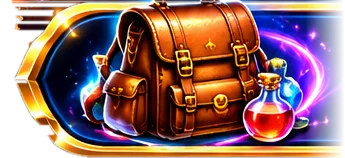
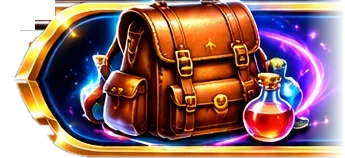
Boutique : fond opaque (plus de carré flou), décor du bas, bandeaux nettoyés
Claude-Session: https://claude.ai/code/session_01L5A7b5TFWkvreAmFd6UdR1

diff --git a/sw.js b/sw.js
@@ -1,4 +1,4 @@
-const C="qmqdev-v24";const F=["eq_cr.webp","mi1.webp","mi2.webp","mi3.webp","mi4.webp","mi5.webp","s_trophy.webp","ei_casque_1.webp","ei_casque_2.webp","ei_casque_3.webp","ei_casque_4.webp","ei_casque_5.webp","ei_ceinture_1.webp","ei_ceinture_2.webp","ei_ceinture_3.webp","ei_ceinture_4.webp","ei_ceinture_5.webp","ei_epaules_1.webp","ei_epaules_2.webp","ei_epaules_3.webp","ei_epaules_4.webp","ei_epaules_5.webp","ei_gants_1.webp","ei_gants_2.webp","ei_gants_3.webp","ei_gants_4.webp","ei_gants_5.webp","ei_jambes_1.webp","ei_jambes_2.webp","ei_jambes_3.webp","ei_jambes_4.webp","ei_jambes_5.webp","ei_pieds_1.webp","ei_pieds_2.webp","ei_pieds_3.webp","ei_pieds_4.webp","ei_pieds_5.webp","ei_torse_1.webp","ei_torse_2.webp","ei_torse_3.webp","ei_torse_4.webp","ei_torse_5.webp","eq_bg.webp","eq_ft.webp","eq_gr.webp","eq_hd.webp","eq_t1.webp","eq_t2.webp","ing.webp","za1.webp","za10.webp","za11.webp","za12.webp","za13.webp","za14.webp","za15.webp","za16.webp","za17.webp","za18.webp","za19.webp","za2.webp","za20.webp","za21.webp","za22.webp","za23.webp","za24.webp","za25.webp","za26.webp","za27.webp","za28.webp","za29.webp","za3.webp","za30.webp","za4.webp","za5.webp","za6.webp","za7.webp","za8.webp","za9.webp","zbk.webp","zco.webp","zf.webp","zgr.webp","zh.webp","zlk.webp","zs1.webp","zs10.webp","zs11.webp","zs12.webp","zs13.webp","zs14.webp","zs15.webp","zs16.webp","zs17.webp","zs18.webp","zs19.webp","zs2.webp","zs20.webp","zs21.webp","zs22.webp","zs23.webp","zs24.webp","zs25.webp","zs26.webp","zs27.webp","zs28.webp","zs29.webp","zs3.webp","zs30.webp","zs4.webp","zs5.webp","zs6.webp","zs7.webp","zs8.webp","zs9.webp","zti.webp","gw_lock.webp","gw_fam.webp","gw_gem.webp","eclat_essence.webp","eclat_runique.webp","eclat_astral.webp","eclat_eternel.webp","hn00.webp","hn01.webp","hn02.webp","hn03.webp","hn04.webp","hn05.webp","hn06.webp","hn07.webp","hn08.webp","hn09.webp","hn10.webp","hn11.webp","hn12.webp","hn13.webp","hn14.webp","hn15.webp","hn16.webp","hn17.webp","hn18.webp","hn19.webp","hn20.webp","hn21.webp","hn22.webp","hn23.webp","hn24.webp","hn25.webp","hn26.webp","hn27.webp","hn28.webp","hn29.webp","hn30.webp","hn31.webp","hn32.webp","hn33.webp","hn34.webp","hn35.webp","hn36.webp","hn37.webp","hn38.webp","hn39.webp","hn40.webp","hn41.webp","hn42.webp","hn43.webp","hn44.webp","hn45.webp","hn46.webp","hn47.webp","hn48.webp","hn49.webp","hn50.webp","hn51.webp","hn52.webp","hn53.webp","hn54.webp","hn55.webp","hn56.webp","hn57.webp","hn58.webp","hn59.webp","hn60.webp","hn61.webp","hn62.webp","hn63.webp","hn64.webp","hn65.webp","hn66.webp","hn67.webp","hn68.webp","hn69.webp","hn70.webp","hn71.webp","hn72.webp","hn73.webp","hn74.webp","hn75.webp","hn76.webp","hn77.webp","hn78.webp","hn79.webp","hn80.webp","hn81.webp","hn82.webp","hn83.webp","s_fr_c01.webp","s_fr_c02.webp","s_fr_c03.webp","s_fr_c04.webp","s_fr_c05.webp","s_fr_c06.webp","s_fr_c07.webp","s_fr_c08.webp","s_fr_c09.webp","s_fr_c10.webp","s_fr_c11.webp","s_fr_c12.webp","s_fr_c13.webp","s_fr_c14.webp","s_fr_c15.webp","s_fr_c16.webp","s_fr_c17.webp","s_fr_c18.webp","sb_l_obj.webp","sb_l_fr.webp","sb_l_ti.webp","sb_l_th.webp","sb_l0.webp","sb_r.webp","sb_r0.webp","sb_mid.webp","shop_head.webp","mn_head.webp","dx_head.webp","dx_eye.webp","mt_zone.webp","mt_badge.webp","mt_dex.webp","mt_shop.webp","mt_inv.webp","mt_wheel.webp","mt_coop.webp","mt_sell.webp","mt_odds.webp","mt_news.webp","mt_blank1.webp","mt_blank2.webp","./", "index.html", "manifest.webmanifest", "icon-192.png", "icon-512.png","icon-maskable-192.png","icon-maskable-512.png", "i0.webp", "i1.webp", "i10.webp", "i100.webp", "i101.webp", "i102.webp", "i103.webp", "i104.webp", "i105.webp", "i106.webp", "i107.webp", "i108.webp", "i109.webp", "i11.webp", "i110.webp", "i111.webp", "i112.webp", "i113.webp", "i114.webp", "i115.webp", "i116.webp", "i117.webp", "i118.webp", "i119.webp", "i12.webp", "i120.webp", "i121.webp", "i122.webp", "i123.webp", "i124.webp", "i125.webp", "i126.webp", "i127.webp", "i128.webp", "i129.webp", "i13.webp", "i130.webp", "i131.webp", "i132.webp", "i133.webp", "i134.webp", "i135.webp", "i136.webp", "i137.webp", "i138.webp", "i139.webp", "i14.webp", "i140.webp", "i141.webp", "i142.webp", "i143.webp", "i144.webp", "i145.webp", "i146.webp", "i147.webp", "i148.webp", "i149.webp", "i15.webp", "i150.webp", "i151.webp", "i152.webp", "i153.webp", "i154.webp", "i155.webp", "i156.webp", "i157.webp", "i158.webp", "i159.webp", "i16.webp", "i160.webp", "i161.webp", "i162.webp", "i163.webp", "i164.webp", "i165.webp", "i166.webp", "i167.webp", "i168.webp", "i169.webp", "i17.webp", "i170.webp", "i171.webp", "i172.webp", "i173.webp", "i174.webp", "i175.webp", "i176.webp", "i177.webp", "i178.webp", "i179.webp", "i18.webp", "i180.webp", "i181.webp", "i182.webp", "i183.webp", "i184.webp", "i185.webp", "i186.webp", "i187.webp", "i188.webp", "i189.webp", "i19.webp", "i190.webp", "i191.webp", "i192.webp", "i193.webp", "i194.webp", "i195.webp", "i196.webp", "i197.webp", "i198.webp", "i199.webp", "i2.webp", "i20.webp", "i200.webp", "i201.webp", "i202.webp", "i203.webp", "i204.webp", "i205.webp", "i206.webp", "i207.webp", "i208.webp", "i209.jpg", "i21.webp", "i210.webp", "i211.webp", "i212.webp", "i213.webp", "i214.webp", "i215.webp", "i216.webp", "i217.webp", "i218.webp", "i219.webp", "i220.webp", "i221.webp", "i222.webp", "i223.webp", "i224.webp", "i225.webp", "i226.webp", "i227.webp", "i228.webp", "i229.webp", "i230.webp", "i231.webp", "i232.webp", "i233.webp", "i234.webp", "i235.webp", "i236.webp", "i237.webp", "bgdev.webp", "i22.webp", "i23.webp", "i24.webp", "i25.webp", "i26.webp", "i27.webp", "i28.webp", "i29.webp", "i3.webp", "i30.webp", "i31.webp", "i32.webp", "i33.webp", "i34.webp", "i35.webp", "i36.webp", "i37.webp", "i38.webp", "i39.webp", "i4.webp", "i40.webp", "i41.webp", "i42.webp", "i43.webp", "i44.webp", "i45.webp", "i46.webp", "i47.webp", "i48.webp", "i49.webp", "i5.webp", "i50.webp", "i51.webp", "i52.webp", "i53.webp", "i54.webp", "i55.webp", "i56.webp", "i57.webp", "i58.webp", "i59.webp", "i6.webp", "i60.webp", "i61.webp", "i62.webp", "i63.webp", "i64.webp", "i65.webp", "i66.webp", "i67.webp", "i68.webp", "i69.webp", "i7.webp", "i70.webp", "i71.webp", "i72.webp", "i73.webp", "i74.webp", "i75.webp", "i76.webp", "i77.webp", "i78.webp", "i79.webp", "i8.webp", "i80.webp", "i81.webp", "i82.webp", "i83.webp", "i84.webp", "i85.webp", "i86.webp", "i87.webp", "i88.webp", "i89.webp", "i9.webp", "i90.webp", "i91.webp", "i92.webp", "i93.webp", "i94.webp", "i95.webp", "i96.webp", "i97.webp", "i98.webp", "i99.webp"];
+const C="qmqdev-v25";const F=["eq_cr.webp","mi1.webp","mi2.webp","mi3.webp","mi4.webp","mi5.webp","s_trophy.webp","ei_casque_1.webp","ei_casque_2.webp","ei_casque_3.webp","ei_casque_4.webp","ei_casque_5.webp","ei_ceinture_1.webp","ei_ceinture_2.webp","ei_ceinture_3.webp","ei_ceinture_4.webp","ei_ceinture_5.webp","ei_epaules_1.webp","ei_epaules_2.webp","ei_epaules_3.webp","ei_epaules_4.webp","ei_epaules_5.webp","ei_gants_1.webp","ei_gants_2.webp","ei_gants_3.webp","ei_gants_4.webp","ei_gants_5.webp","ei_jambes_1.webp","ei_jambes_2.webp","ei_jambes_3.webp","ei_jambes_4.webp","ei_jambes_5.webp","ei_pieds_1.webp","ei_pieds_2.webp","ei_pieds_3.webp","ei_pieds_4.webp","ei_pieds_5.webp","ei_torse_1.webp","ei_torse_2.webp","ei_torse_3.webp","ei_torse_4.webp","ei_torse_5.webp","eq_bg.webp","eq_ft.webp","eq_gr.webp","eq_hd.webp","eq_t1.webp","eq_t2.webp","ing.webp","za1.webp","za10.webp","za11.webp","za12.webp","za13.webp","za14.webp","za15.webp","za16.webp","za17.webp","za18.webp","za19.webp","za2.webp","za20.webp","za21.webp","za22.webp","za23.webp","za24.webp","za25.webp","za26.webp","za27.webp","za28.webp","za29.webp","za3.webp","za30.webp","za4.webp","za5.webp","za6.webp","za7.webp","za8.webp","za9.webp","zbk.webp","zco.webp","zf.webp","zgr.webp","zh.webp","zlk.webp","zs1.webp","zs10.webp","zs11.webp","zs12.webp","zs13.webp","zs14.webp","zs15.webp","zs16.webp","zs17.webp","zs18.webp","zs19.webp","zs2.webp","zs20.webp","zs21.webp","zs22.webp","zs23.webp","zs24.webp","zs25.webp","zs26.webp","zs27.webp","zs28.webp","zs29.webp","zs3.webp","zs30.webp","zs4.webp","zs5.webp","zs6.webp","zs7.webp","zs8.webp","zs9.webp","zti.webp","gw_lock.webp","gw_fam.webp","gw_gem.webp","eclat_essence.webp","eclat_runique.webp","eclat_astral.webp","eclat_eternel.webp","hn00.webp","hn01.webp","hn02.webp","hn03.webp","hn04.webp","hn05.webp","hn06.webp","hn07.webp","hn08.webp","hn09.webp","hn10.webp","hn11.webp","hn12.webp","hn13.webp","hn14.webp","hn15.webp","hn16.webp","hn17.webp","hn18.webp","hn19.webp","hn20.webp","hn21.webp","hn22.webp","hn23.webp","hn24.webp","hn25.webp","hn26.webp","hn27.webp","hn28.webp","hn29.webp","hn30.webp","hn31.webp","hn32.webp","hn33.webp","hn34.webp","hn35.webp","hn36.webp","hn37.webp","hn38.webp","hn39.webp","hn40.webp","hn41.webp","hn42.webp","hn43.webp","hn44.webp","hn45.webp","hn46.webp","hn47.webp","hn48.webp","hn49.webp","hn50.webp","hn51.webp","hn52.webp","hn53.webp","hn54.webp","hn55.webp","hn56.webp","hn57.webp","hn58.webp","hn59.webp","hn60.webp","hn61.webp","hn62.webp","hn63.webp","hn64.webp","hn65.webp","hn66.webp","hn67.webp","hn68.webp","hn69.webp","hn70.webp","hn71.webp","hn72.webp","hn73.webp","hn74.webp","hn75.webp","hn76.webp","hn77.webp","hn78.webp","hn79.webp","hn80.webp","hn81.webp","hn82.webp","hn83.webp","s_fr_c01.webp","s_fr_c02.webp","s_fr_c03.webp","s_fr_c04.webp","s_fr_c05.webp","s_fr_c06.webp","s_fr_c07.webp","s_fr_c08.webp","s_fr_c09.webp","s_fr_c10.webp","s_fr_c11.webp","s_fr_c12.webp","s_fr_c13.webp","s_fr_c14.webp","s_fr_c15.webp","s_fr_c16.webp","s_fr_c17.webp","s_fr_c18.webp","sb_l_obj.webp","sb_l_fr.webp","sb_l_ti.webp","sb_l_th.webp","sb_l0.webp","sb_r.webp","sb_r0.webp","sb_mid.webp","shop_head.webp","shop_foot.webp","mn_head.webp","dx_head.webp","dx_eye.webp","mt_zone.webp","mt_badge.webp","mt_dex.webp","mt_shop.webp","mt_inv.webp","mt_wheel.webp","mt_coop.webp","mt_sell.webp","mt_odds.webp","mt_news.webp","mt_blank1.webp","mt_blank2.webp","./", "index.html", "manifest.webmanifest", "icon-192.png", "icon-512.png","icon-maskable-192.png","icon-maskable-512.png", "i0.webp", "i1.webp", "i10.webp", "i100.webp", "i101.webp", "i102.webp", "i103.webp", "i104.webp", "i105.webp", "i106.webp", "i107.webp", "i108.webp", "i109.webp", "i11.webp", "i110.webp", "i111.webp", "i112.webp", "i113.webp", "i114.webp", "i115.webp", "i116.webp", "i117.webp", "i118.webp", "i119.webp", "i12.webp", "i120.webp", "i121.webp", "i122.webp", "i123.webp", "i124.webp", "i125.webp", "i126.webp", "i127.webp", "i128.webp", "i129.webp", "i13.webp", "i130.webp", "i131.webp", "i132.webp", "i133.webp", "i134.webp", "i135.webp", "i136.webp", "i137.webp", "i138.webp", "i139.webp", "i14.webp", "i140.webp", "i141.webp", "i142.webp", "i143.webp", "i144.webp", "i145.webp", "i146.webp", "i147.webp", "i148.webp", "i149.webp", "i15.webp", "i150.webp", "i151.webp", "i152.webp", "i153.webp", "i154.webp", "i155.webp", "i156.webp", "i157.webp", "i158.webp", "i159.webp", "i16.webp", "i160.webp", "i161.webp", "i162.webp", "i163.webp", "i164.webp", "i165.webp", "i166.webp", "i167.webp", "i168.webp", "i169.webp", "i17.webp", "i170.webp", "i171.webp", "i172.webp", "i173.webp", "i174.webp", "i175.webp", "i176.webp", "i177.webp", "i178.webp", "i179.webp", "i18.webp", "i180.webp", "i181.webp", "i182.webp", "i183.webp", "i184.webp", "i185.webp", "i186.webp", "i187.webp", "i188.webp", "i189.webp", "i19.webp", "i190.webp", "i191.webp", "i192.webp", "i193.webp", "i194.webp", "i195.webp", "i196.webp", "i197.webp", "i198.webp", "i199.webp", "i2.webp", "i20.webp", "i200.webp", "i201.webp", "i202.webp", "i203.webp", "i204.webp", "i205.webp", "i206.webp", "i207.webp", "i208.webp", "i209.jpg", "i21.webp", "i210.webp", "i211.webp", "i212.webp", "i213.webp", "i214.webp", "i215.webp", "i216.webp", "i217.webp", "i218.webp", "i219.webp", "i220.webp", "i221.webp", "i222.webp", "i223.webp", "i224.webp", "i225.webp", "i226.webp", "i227.webp", "i228.webp", "i229.webp", "i230.webp", "i231.webp", "i232.webp", "i233.webp", "i234.webp", "i235.webp", "i236.webp", "i237.webp", "bgdev.webp", "i22.webp", "i23.webp", "i24.webp", "i25.webp", "i26.webp", "i27.webp", "i28.webp", "i29.webp", "i3.webp", "i30.webp", "i31.webp", "i32.webp", "i33.webp", "i34.webp", "i35.webp", "i36.webp", "i37.webp", "i38.webp", "i39.webp", "i4.webp", "i40.webp", "i41.webp", "i42.webp", "i43.webp", "i44.webp", "i45.webp", "i46.webp", "i47.webp", "i48.webp", "i49.webp", "i5.webp", "i50.webp", "i51.webp", "i52.webp", "i53.webp", "i54.webp", "i55.webp", "i56.webp", "i57.webp", "i58.webp", "i59.webp", "i6.webp", "i60.webp", "i61.webp", "i62.webp", "i63.webp", "i64.webp", "i65.webp", "i66.webp", "i67.webp", "i68.webp", "i69.webp", "i7.webp", "i70.webp", "i71.webp", "i72.webp", "i73.webp", "i74.webp", "i75.webp", "i76.webp", "i77.webp", "i78.webp", "i79.webp", "i8.webp", "i80.webp", "i81.webp", "i82.webp", "i83.webp", "i84.webp", "i85.webp", "i86.webp", "i87.webp", "i88.webp", "i89.webp", "i9.webp", "i90.webp", "i91.webp", "i92.webp", "i93.webp", "i94.webp", "i95.webp", "i96.webp", "i97.webp", "i98.webp", "i99.webp"];
 self.addEventListener("install",e=>{e.waitUntil(caches.open(C).then(c=>Promise.all(F.map(u=>c.add(new Request(u,{cache:"reload"})).catch(()=>0)))).then(()=>self.skipWaiting()))});
 self.addEventListener("activate",e=>{e.waitUntil(caches.keys().then(k=>Promise.all(k.filter(x=>/^qmqdev-/.test(x)&&x!==C).map(x=>caches.delete(x)))).then(()=>self.clients.claim()))});
 self.addEventListener("fetch",e=>{if(e.request.method!=="GET"||new URL(e.request.url).origin!==location.origin)return;const pg=e.request.mode==="navigate"||/\.(html|webmanifest|js)$/.test(new URL(e.request.url).pathname)||new URL(e.request.url).pathname.endsWith("/");e.respondWith(fetch(e.request,pg?{cache:"no-cache"}:undefined).then(r=>{if(r&&r.ok){const y=r.clone();caches.open(C).then(c=>c.put(e.request,y))}return r}).catch(()=>caches.match(e.request,{ignoreSearch:true}).then(r=>r||caches.match("./"))))});

diff --git a/index.html b/index.html
@@ -652,7 +652,7 @@ function useBL(){if(!G||!G.mx||G.mhp<=0||!$("bl"))return;if(!ST.dev)S.inv.bl=Mat
 function useFF(){S.inv.fh--;G.ffu=true;save();sh([...document.querySelectorAll(".opt")].filter((b,j)=>!G.cur[j][1])).slice(0,2).forEach(b=>{b.disabled=true;b.style.opacity=.25});$("ff").remove()}
 {const st=document.createElement("style");st.textContent=`.gbar{position:relative;display:flex;align-items:center;height:68px;margin:0}.gbar::before{content:"";position:absolute;top:0;bottom:0;left:70px;right:40px;background:url(sb_mid.webp) center/100% 100% no-repeat}.gbar .gbl0~.gbt{}.gbar:has(.gbl0)::before{left:34px}.gbar .gbl{position:absolute;left:0;top:0;height:100%;aspect-ratio:345/158;background:center/100% 100% no-repeat}.gbar .gbl0{aspect-ratio:80/158}.gbar .gbr{position:absolute;right:0;top:0;height:100%;aspect-ratio:185/158;background:url(sb_r.webp) center/100% 100% no-repeat;transition:transform .25s}.gbar .gbt{position:relative;flex:1;text-align:center;padding-left:34%;padding-right:22%;font-family:Georgia,"Times New Roman",serif;font-weight:900;font-size:1.25rem;line-height:1.05;color:#fff1c2;text-shadow:0 2px 0 #6b3d00,0 0 8px rgba(255,200,80,.55),0 2px 6px #000}.gbar .gbl0~.gbt{padding-left:14%}.shcat[open] .gbr{transform:scaleY(-1)}.shcat{margin:10px 0;border-radius:0 0 16px 16px;background:none;border:0;overflow:visible}.shcat>summary{list-style:none;cursor:pointer;padding:0}.shcat>summary::-webkit-details-marker{display:none}.shcat>.shb{margin:-6px 10px 0;padding:14px 12px 12px;border:2px solid #c9a24a;border-top:0;border-radius:0 0 16px 16px;background:linear-gradient(180deg,#f7ecd2,#ead8b0);box-shadow:0 4px 12px rgba(0,0,0,.35)}.shcat .row span,.shcat .row b{color:#3a2508!important;text-shadow:none!important}.shcat .row small{color:#6b5232!important}.shcat .row{border-bottom:1px solid rgba(120,85,30,.18);padding-bottom:8px}.shcat .row:last-child{border-bottom:0}.shcat .shg{margin-top:4px}.thmini{display:block;width:62px;height:96px;margin:0 auto 4px;border-radius:10px;background:center/cover no-repeat;border:2px solid rgba(255,220,140,.8);box-shadow:0 2px 6px rgba(0,0,0,.4)}.thnm{display:block;font-size:.72rem;font-weight:800;line-height:1.1}`;document.head.appendChild(st)}
 window.WTH={menu:()=>`<span class="gT" style="top:57%;height:28%">Menu</span>`,dex:()=>`<span class="gT" style="top:41%;height:31%">Monstrodex</span><span class="gT gTs" style="top:75%;height:21%;left:36%;right:36%">${S.dex.length} / ${MD.length}</span>`,shop:()=>`<span class="shT">Boutique</span><span class="shC"><img src="i209.jpg" alt="" onerror="this.remove()">🪙 ${ST.dev&&!window.PVW?"∞":(S.coins||0)}</span>`};
-{const st=document.createElement("style");st.textContent=`[data-k="menu"] .wh,[data-k="dex"] .wh,[data-k="shop"] .wh{position:relative;flex:none;display:block!important;padding:0!important;border:0!important;border-radius:0!important;background:url(shop_head.webp) top center/100% 100% no-repeat!important;aspect-ratio:1024/335;box-shadow:none!important;backdrop-filter:none!important;z-index:3}[data-k="menu"] .wh{background-image:url(mn_head.webp)!important;aspect-ratio:1024/218}[data-k="dex"] .wh{background-image:url(dx_head.webp)!important;aspect-ratio:1024/268}[data-k="menu"] #wt,[data-k="dex"] #wt,[data-k="shop"] #wt{position:absolute;inset:0;display:block}.gT{position:absolute;left:30%;right:30%;display:flex;align-items:center;justify-content:center;font-family:Georgia,"Times New Roman",serif;font-weight:900;font-size:clamp(1.1rem,5.6vw,2.1rem);line-height:1;color:#ffe9a8;text-shadow:0 2px 0 #6b3d00,0 0 10px rgba(255,200,80,.6),0 3px 6px #000;white-space:nowrap}.gTs{font-size:clamp(1rem,5vw,1.7rem)}[data-k="menu"] .wx,[data-k="dex"] .wx{position:absolute!important;right:3%!important;width:10.5%!important;height:auto!important;aspect-ratio:1;opacity:0!important;margin:0!important;z-index:4}[data-k="menu"] .wx{top:38%!important}[data-k="dex"] .wx{top:40%!important}[data-k="shop"] .shT{position:absolute;left:28%;right:28%;top:37%;height:21%;display:flex;align-items:center;justify-content:center;font-family:Georgia,"Times New Roman",serif;font-weight:900;font-size:clamp(1.3rem,6.5vw,2.4rem);color:#fff1c2;text-shadow:0 2px 0 #6b3d00,0 0 10px rgba(255,200,80,.6),0 3px 6px #000}[data-k="shop"] .shC{position:absolute;left:50%;top:72%;transform:translateX(-50%);display:flex;align-items:center;gap:6px;padding:4px 18px;border-radius:999px;background:linear-gradient(180deg,#2a1a08,#140b02);border:2px solid #e6b422;box-shadow:0 0 10px rgba(230,180,34,.6);font-weight:900;font-size:clamp(1rem,4.6vw,1.5rem);color:#fff1c2;white-space:nowrap}[data-k="shop"] .shC img{display:none}[data-k="shop"] .wx{position:absolute!important;right:2.5%!important;top:22%!important;width:11%!important;height:auto!important;aspect-ratio:1;opacity:0!important;margin:0!important;z-index:4}`;document.head.appendChild(st)}
+{const st=document.createElement("style");st.textContent=`[data-k="menu"] .wh,[data-k="dex"] .wh,[data-k="shop"] .wh{position:relative;flex:none;display:block!important;padding:0!important;border:0!important;border-radius:0!important;background:url(shop_head.webp) top center/100% 100% no-repeat!important;aspect-ratio:1024/335;box-shadow:none!important;backdrop-filter:none!important;z-index:3}html body .win[data-k="shop"] .wp{background:url(shop_foot.webp) bottom center/100% auto no-repeat,linear-gradient(180deg,#0d1238 0%,#120c33 55%,#1a0d3e 100%)!important;backdrop-filter:none!important;-webkit-backdrop-filter:none!important}html body .win[data-k="shop"] .wb{background-color:transparent!important;backdrop-filter:none!important}[data-k="menu"] .wh{background-image:url(mn_head.webp)!important;aspect-ratio:1024/218}[data-k="dex"] .wh{background-image:url(dx_head.webp)!important;aspect-ratio:1024/268}[data-k="menu"] #wt,[data-k="dex"] #wt,[data-k="shop"] #wt{position:absolute;inset:0;display:block}.gT{position:absolute;left:30%;right:30%;display:flex;align-items:center;justify-content:center;font-family:Georgia,"Times New Roman",serif;font-weight:900;font-size:clamp(1.1rem,5.6vw,2.1rem);line-height:1;color:#ffe9a8;text-shadow:0 2px 0 #6b3d00,0 0 10px rgba(255,200,80,.6),0 3px 6px #000;white-space:nowrap}.gTs{font-size:clamp(1rem,5vw,1.7rem)}[data-k="menu"] .wx,[data-k="dex"] .wx{position:absolute!important;right:3%!important;width:10.5%!important;height:auto!important;aspect-ratio:1;opacity:0!important;margin:0!important;z-index:4}[data-k="menu"] .wx{top:38%!important}[data-k="dex"] .wx{top:40%!important}[data-k="shop"] .shT{position:absolute;left:28%;right:28%;top:37%;height:21%;display:flex;align-items:center;justify-content:center;font-family:Georgia,"Times New Roman",serif;font-weight:900;font-size:clamp(1.3rem,6.5vw,2.4rem);color:#fff1c2;text-shadow:0 2px 0 #6b3d00,0 0 10px rgba(255,200,80,.6),0 3px 6px #000}[data-k="shop"] .shC{position:absolute;left:50%;top:72%;transform:translateX(-50%);display:flex;align-items:center;gap:6px;padding:4px 18px;border-radius:999px;background:linear-gradient(180deg,#2a1a08,#140b02);border:2px solid #e6b422;box-shadow:0 0 10px rgba(230,180,34,.6);font-weight:900;font-size:clamp(1rem,4.6vw,1.5rem);color:#fff1c2;white-space:nowrap}[data-k="shop"] .shC img{display:none}[data-k="shop"] .wx{position:absolute!important;right:2.5%!important;top:22%!important;width:11%!important;height:auto!important;aspect-ratio:1;opacity:0!important;margin:0!important;z-index:4}`;document.head.appendChild(st)}
 {const st=document.createElement("style");st.textContent=`html body main #app > .card.parch.qcd.qcd,html body #app .card.qcd,html body #app .chtab,html body #app #hcard>button.btn.big,html body #app .btn.big[onclick*="openWin('hero')"]{background:rgba(255,243,210,.55)!important;border:2px solid rgba(227,184,74,.95)!important;box-shadow:inset 0 0 0 2px rgba(255,243,207,.6),0 4px 10px rgba(0,0,0,.3)!important;backdrop-filter:none!important}html body main #app > .card.parch.qcd.qcd,html body main #app > .card.parch.qcd.qcd *,html body #app .card.qcd,html body #app .card.qcd *,html body #app .chtab summary,html body #app .chtab summary *,html body #app .btn.big[onclick*="openWin('hero')"]{color:#2a1608!important;text-shadow:0 1px 0 rgba(255,255,255,.55)!important}html body #app .chtab summary span{color:#5a3a12!important}`;document.head.appendChild(st)}
 {const st=document.createElement("style");st.textContent=`html body .win[data-k="menu"] .wb .btn,html body .win[data-k="menu"] .wb .dvb{border-radius:999px!important;border:3px solid #e6b422!important;background:linear-gradient(180deg,#1d4fb8,#0b2a78 55%,#08205e)!important;box-shadow:0 0 0 2px #7a4f00,0 0 12px rgba(80,150,255,.45),inset 0 2px 6px rgba(140,200,255,.45)!important;color:#fff1c2!important;font-family:Georgia,"Times New Roman",serif!important;font-weight:700!important;text-shadow:0 2px 3px #000!important;backdrop-filter:none!important}html body .win[data-k="menu"] .wb .btn.big{background:linear-gradient(180deg,#8a4bff,#5a1fc8 55%,#3d1192)!important;box-shadow:0 0 0 2px #7a4f00,0 0 14px rgba(170,110,255,.6),inset 0 2px 6px rgba(220,190,255,.5)!important}html body .win[data-k="menu"] .wb .btn.off,html body .win[data-k="menu"] .wb .dvb.off{filter:saturate(.6) brightness(.85)}html body .win[data-k="menu"] .wb .pill{border:3px solid #e6b422!important;background:radial-gradient(circle at 50% 35%,#3a5fd0,#0b2a78 70%)!important;box-shadow:0 0 0 2px #7a4f00,0 0 10px rgba(80,150,255,.5)!important}html body .win[data-k="menu"] .wb .pill.off{filter:grayscale(.7) brightness(.7)}html body .win[data-k="menu"] .wb .plabel{background:linear-gradient(90deg,#5a27c4,#33137f)!important;border:2px solid #e6b422!important;border-radius:12px;padding:7px 12px;color:#ffe28a!important;font-family:Georgia,serif;text-shadow:0 1px 3px #000!important}`;document.head.appendChild(st)}
 let SHC={};const SHI={obj:"obj",fr:"fr",ti:"ti",th:"th"};
@@ -1161,7 +1161,7 @@ window.tiH=(t,P)=>{P=P||S;const c=TCOL[P.tc||0]||TCOL[0],w=TWT[P.tw==null?1:P.tw
 function tiSet(k,v){S[k]=v;save();winRender()}
 const tiStyleBox=()=>`<div class="tiBox"><div class="tiPrev">${S.ti?tiH(TI[S.ti]):`<span style="color:#6b5232">Choisis d’abord un titre ci-dessous</span>`}</div><div class="tiLbl">🎨 Couleur</div><div class="tiCols">${TCOL.map(([n,c],j)=>`<button class="tiC${(S.tc||0)==j?" on":""}" aria-label="${n}" title="${n}" style="background:${c}" onclick="tiSet('tc',${j})"></button>`).join("")}</div><div class="tiLbl">✒ Épaisseur</div><div class="tiWs">${TWT.map(([n,w],j)=>`<button class="tiW${(S.tw==null?1:S.tw)==j?" on":""}" style="font-weight:${w}" onclick="tiSet('tw',${j})">${n}</button>`).join("")}</div><small style="color:#6b5232">Gratuit : change le style de ton titre quand tu veux.</small></div>`;
 {const st=document.createElement("style");st.textContent=`.shcat>summary{background:none!important;border:0!important;box-shadow:none!important;margin:0!important;padding:0!important}.thnm{color:#3a2508!important;text-shadow:none!important}.tiBox small{text-shadow:none!important;color:#6b5232!important}.tiBox{background:rgba(255,255,255,.55);border:1px solid rgba(150,110,40,.4);border-radius:12px;padding:10px;margin-bottom:10px;text-align:center}.tiPrev{font-size:1.35rem;padding:8px;margin-bottom:6px;background:linear-gradient(90deg,#2a1260,#1a0b45);border-radius:10px;border:2px solid #c9a24a}.tiLbl{font-weight:800;color:#3a2508;margin:6px 0 4px;text-align:left}.tiCols{display:flex;flex-wrap:wrap;gap:8px;justify-content:center}.tiC{width:34px;height:34px;border-radius:50%;border:3px solid #fff;box-shadow:0 0 0 2px #8a6a2a;padding:0;cursor:pointer}.tiC.on{box-shadow:0 0 0 3px #3a2508,0 0 10px #ffd23f;transform:scale(1.12)}.tiWs{display:flex;gap:8px;justify-content:center}.tiW{flex:1;padding:8px;border-radius:10px;border:2px solid #c9a24a;background:#fff8e6;color:#3a2508;cursor:pointer;font-size:1rem}.tiW.on{background:linear-gradient(180deg,#ffd86b,#e2a722);border-color:#6b3d00}`;document.head.appendChild(st)}
-const shopItems=()=>shopSec("🖼 Cadres","fr",1)+shopSec("🏷 Titres","ti",1)+shopSec("🎨 Thèmes animés (fond du jeu)","th",1);
+const shopItems=()=>shopSec("🖼 Cadres","fr",1)+shopSec("🏷 Titres","ti",1)+shopSec("🎨 Thèmes animés","th",1);
 let PV=null;
 function pvOpen(k,i){PV={k,i};document.body.classList.add("pv");hpv();if(k=="th")document.body.dataset.th=THN[i];const pr=(PRC[k]||[])[i]||0,ow=own(k,i),HI=k=="fr"||k=="hw"||k=="hc"||k=="ti",sv=S[k];if(HI)S[k]=i;
  const mid=k=="bg"?`<div class="arena" style="background:${BG[i]};height:190px;margin:0"><div style="font-size:4rem;text-align:center">${hero()}<small style="display:block;font-size:.8rem">${esc(S.name||"Toi")}</small></div><div style="font-size:2.5rem">⚔</div><div>${MD[0].svg}</div></div>`:`<div class="c" style="font-size:${HI?"8rem":"5rem"}">${hero()}<small style="display:block;font-size:.9rem;margin-top:6px">${esc(S.name||"Mon héros")}</small>${k=="ti"&&S.ti?`<small style="display:block;font-size:.95rem;color:var(--mut);font-weight:700">${tiH(TI[S.ti])}</small>`:""}</div>${HI?"<div></div>":`<div class="card c"><b>Exemple de menu</b><br><small>Les cartes laissent voir le décor.</small></div>`}`;if(HI)S[k]=sv;
